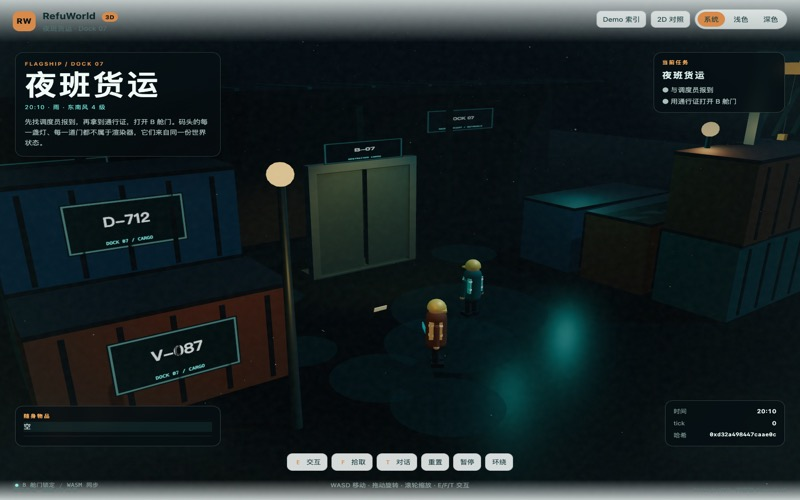
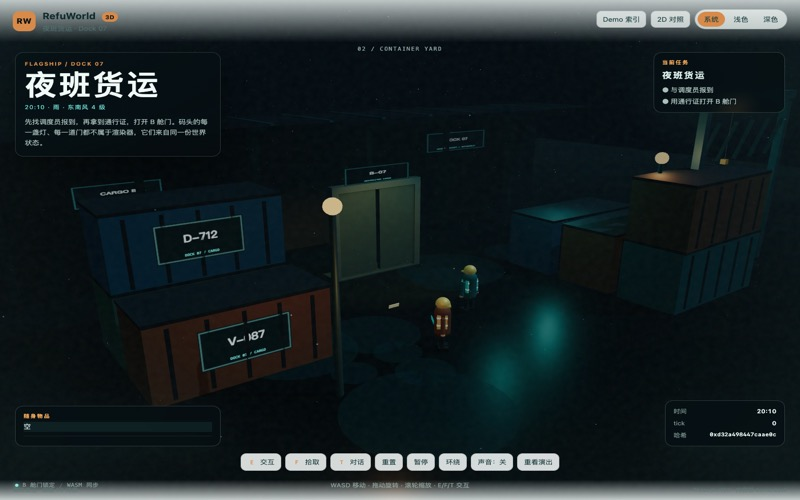
feat(world): Dock 07 环境音与镜头演出
新增 WebAudio 雨声/码头低频/雾笛/门伺服，默认关闭；四段式 2.8–4.6s 镜头推入、重看演出与拖动取消；更新旗舰卡截图；文档补 P7/P8。

diff --git a/games/world/web/dock3d.js b/games/world/web/dock3d.js
@@ -6,7 +6,17 @@ const TICK_US = 16666;
 const canvas = document.getElementById("scene");
 const el = Object.fromEntries(["quest-title","quest-objectives","inventory","flags","clock","tick","hash","toast","dialogue","dialogue-speaker","dialogue-text","loading","status-text","btn-pause"].map((id) => [id, document.getElementById(id)]));
 let world, current, renderer, scene, camera, controls;
-let paused = false, last = performance.now(), acc = 0, toastTimer = 0, dialogTimer = 0, intro = 0;
+let paused = false, last = performance.now(), acc = 0, toastTimer = 0, dialogTimer = 0;
+let cinematic = true, cinematicTime = 0, cinematicLength = 4.6;
+let soundOn = false;
+const SHOTS = [
+  { at: 0.0, pos: [15, 10, -16], target: [0, 1.6, 4.2], label: "01 / QUAY OVERVIEW" },
+  { at: 1.35, pos: [11, 6.2, -10], target: [0, 1.4, 3.2], label: "02 / CONTAINER YARD" },
+  { at: 2.85, pos: [7.8, 4.4, -7.2], target: [0, 1.3, 4.2], label: "03 / B-07 CARGO GATE" },
+  { at: 4.1, pos: [8.2, 5.2, -9], target: [0, 1.4, 2.5], label: "04 / NIGHT SHIFT" },
+];
+const shotLabel = document.getElementById("shot-label");
+let audio = null;
 let controlsAuto = false;
 const keys = new Set();
 const views = new Map();
@@ -100,6 +110,56 @@ function makeKeycard() {
   g.position.y = 0.7; return g;
 }
 
+class DockAudio {
+  constructor() { this.ctx = null; this.master = null; this.rainGain = null; this.hum = []; this.timer = null; }
+  async enable() {
+    if (!this.ctx) this.build();
+    await this.ctx.resume();
+    this.master.gain.setTargetAtTime(0.55, this.ctx.currentTime, 0.25);
+    this.startFoghorn();
+  }
+  disable() {
+    if (!this.ctx || !this.master) return;
+    this.master.gain.setTargetAtTime(0, this.ctx.currentTime, 0.18);
+    if (this.timer) { clearInterval(this.timer); this.timer = null; }
+  }
+  build() {
+    const Ctx = window.AudioContext || window.webkitAudioContext;
+    this.ctx = new Ctx();
+    this.master = this.ctx.createGain(); this.master.gain.value = 0; this.master.connect(this.ctx.destination);
+    const len = this.ctx.sampleRate * 2;
+    const buf = this.ctx.createBuffer(1, len, this.ctx.sampleRate);
+    const data = buf.getChannelData(0);
+    let last = 0;
+    for (let i = 0; i < len; i++) { const white = Math.random() * 2 - 1; last = last * 0.94 + white * 0.06; data[i] = last; }
+    const rain = this.ctx.createBufferSource(); rain.buffer = buf; rain.loop = true;
+    const filter = this.ctx.createBiquadFilter(); filter.type = "lowpass"; filter.frequency.value = 1200; filter.Q.value = 0.5;
+    this.rainGain = this.ctx.createGain(); this.rainGain.gain.value = 0.15;
+    rain.connect(filter).connect(this.rainGain).connect(this.master); rain.start();
+    for (const [freq, amp] of [[48, 0.045], [73, 0.022]]) {
+      const osc = this.ctx.createOscillator(); osc.type = "sine"; osc.frequency.value = freq;
+      const g = this.ctx.createGain(); g.gain.value = amp; osc.connect(g).connect(this.master); osc.start(); this.hum.push(osc);
+    }
+  }
+  startFoghorn() {
+    if (this.timer || !this.ctx) return;
+    const play = () => {
+      const now = this.ctx.currentTime;
+      const osc = this.ctx.createOscillator(); osc.type = "sine"; osc.frequency.setValueAtTime(92, now); osc.frequency.exponentialRampToValueAtTime(78, now + 1.6);
+      const g = this.ctx.createGain(); g.gain.setValueAtTime(0, now); g.gain.linearRampToValueAtTime(0.08, now + 0.25); g.gain.setValueAtTime(0.08, now + 1.2); g.gain.exponentialRampToValueAtTime(0.001, now + 3.0);
+      osc.connect(g).connect(this.master); osc.start(now); osc.stop(now + 3.1);
+    };
+    play(); this.timer = setInterval(play, 15000);
+  }
+  door() {
+    if (!this.ctx || !soundOn) return;
+    const now = this.ctx.currentTime; const osc = this.ctx.createOscillator(); osc.type = "sawtooth";
+    osc.frequency.setValueAtTime(110, now); osc.frequency.exponentialRampToValueAtTime(310, now + 0.7); osc.frequency.exponentialRampToValueAtTime(160, now + 1.2);
+    const g = this.ctx.createGain(); g.gain.setValueAtTime(0.0001, now); g.gain.exponentialRampToValueAtTime(0.060, now + 0.08); g.gain.exponentialRampToValueAtTime(0.0001, now + 1.35);
+    osc.connect(g).connect(this.master); osc.start(now); osc.stop(now + 1.4);
+  }
+}
+
 function buildScene() {
   scene = new THREE.Scene();
   scene.background = new THREE.Color(0x030b10);
@@ -115,6 +175,7 @@ function buildScene() {
   renderer.toneMapping = THREE.ACESFilmicToneMapping;
   renderer.toneMappingExposure = 1.2;
   controls = new OrbitControls(camera, canvas);
+  controls.enabled = false;
   controls.target.set(0, 1.4, 4);
   controls.enableDamping = true; controls.dampingFactor = 0.05;
   controls.minDistance = 3.5; controls.maxDistance = 22; controls.maxPolarAngle = Math.PI * 0.49;
@@ -309,6 +370,14 @@ function bindUi() {
   document.getElementById("btn-reset").addEventListener("click", () => { world.reset(); current = JSON.parse(world.state()); views.forEach((g) => scene.remove(g)); views.clear(); syncViews(); renderHud(); });
   el["btn-pause"].addEventListener("click", () => { paused = !paused; el["btn-pause"].textContent = paused ? "继续" : "暂停"; });
   document.getElementById("btn-camera").addEventListener("click", (e) => { controlsAuto = !controlsAuto; controls.autoRotate = controlsAuto; e.currentTarget.setAttribute("aria-pressed", String(controlsAuto)); });
+  document.getElementById("btn-replay").addEventListener("click", () => { cinematic = true; cinematicTime = 0; controls.enabled = false; controlsAuto = false; controls.autoRotate = false; document.getElementById("btn-camera").setAttribute("aria-pressed", "false"); });
+  document.getElementById("btn-sound").addEventListener("click", async (e) => {
+    soundOn = !soundOn;
+    if (soundOn) { if (!audio) audio = new DockAudio(); await audio.enable(); } else if (audio) audio.disable();
+    e.currentTarget.setAttribute("aria-pressed", String(soundOn));
+    e.currentTarget.textContent = soundOn ? "声音：开" : "声音：关";
+  });
+  controls.addEventListener("start", () => { if (cinematic) { cinematic = false; shotLabel.style.opacity = "0"; controls.enabled = true; } });
   window.addEventListener("keydown", (e) => {
     if (e.target instanceof HTMLInputElement || e.target instanceof HTMLTextAreaElement) return;
     const k = e.key.toLowerCase();
@@ -327,7 +396,7 @@ function handleEvents() {
     if (event.kind === "toast") showToast(event.data?.text ?? "");
     else if (event.kind === "dialogue_started") showDialogue(event);
     else if (event.kind === "item_acquired") showToast(`获得：${String(event.data?.item ?? "").replace("item.dock.", "")}`);
-    else if (event.kind === "door_opened") showToast("B 舱门开启");
+    else if (event.kind === "door_opened") { showToast("B 舱门开启"); audio?.door(); }
   }
 }
 
@@ -336,14 +405,27 @@ function animate(dt, now) {
   if (stars) stars.rotation.y += dt * 0.003;
   if (craneHook) craneHook.position.y = 5.4 + Math.sin(now * 0.0003) * 0.15;
   for (const p of gate.panels) p.rotation.z = Math.sin(now * 0.001) * 0.0015;
-  if (intro < 1) {
-    intro = Math.min(1, intro + dt / 2.8);
-    const e = 1 - Math.pow(1 - intro, 3);
-    camera.position.lerpVectors(new THREE.Vector3(13, 9, -14), new THREE.Vector3(8, 5.2, -9), e);
-    controls.target.lerpVectors(new THREE.Vector3(0, 1.4, 4), new THREE.Vector3(0, 1.4, 2.5), e);
+  if (cinematic) {
+    cinematicTime += dt;
+    let a = SHOTS[0], b = SHOTS[SHOTS.length - 1];
+    if (cinematicTime >= SHOTS[SHOTS.length - 1].at) { a = SHOTS[SHOTS.length - 1]; b = a; }
+    else {
+      for (let i = 0; i < SHOTS.length - 1; i++) {
+        if (cinematicTime >= SHOTS[i].at && cinematicTime <= SHOTS[i + 1].at) { a = SHOTS[i]; b = SHOTS[i + 1]; break; }
+      }
+    }
+    const span = Math.max(0.001, b.at - a.at);
+    const u = Math.min(1, (cinematicTime - a.at) / span);
+    const e = u * u * (3 - 2 * u);
+    camera.position.lerpVectors(new THREE.Vector3(...a.pos), new THREE.Vector3(...b.pos), e);
+    controls.target.lerpVectors(new THREE.Vector3(...a.target), new THREE.Vector3(...b.target), e);
+    shotLabel.textContent = b.label;
+    shotLabel.style.opacity = "1";
+    if (cinematicTime >= cinematicLength) { cinematic = false; shotLabel.style.opacity = "0"; controls.enabled = true; }
+  } else {
+    const p = playerEntity();
+    if (p) controls.target.lerp(new THREE.Vector3(p.transform.position[0], 1.4, p.transform.position[2] + 2.8), 0.06);
   }
-  const p = playerEntity();
-  if (p) controls.target.lerp(new THREE.Vector3(p.transform.position[0], 1.4, p.transform.position[2] + 2.8), 0.06);
 }
 
 function loop(now) {

diff --git a/games/world/web/dock3d.html b/games/world/web/dock3d.html
@@ -82,9 +82,12 @@
       <button id="btn-reset" type="button">重置</button>
       <button id="btn-pause" type="button">暂停</button>
       <button id="btn-camera" type="button" aria-pressed="false">环绕</button>
+      <button id="btn-sound" type="button" aria-pressed="false">声音：关</button>
+      <button id="btn-replay" type="button">重看演出</button>
     </section>
     <p class="scene-hint">WASD 移动 · 拖动旋转 · 滚轮缩放 · E/F/T 交互</p>
     <div class="dock-status"><span class="dock-dot"></span><span id="status-text">码头在线</span><span class="dock-sep">/</span><span>WASM 同步</span></div>
+    <div class="dock-shot" id="shot-label">01 / QUAY OVERVIEW</div>
   </main>
 
   <div id="dialogue" class="dialogue" hidden><p class="eyebrow" id="dialogue-speaker">调度员</p><p id="dialogue-text"></p></div>

diff --git a/games/world/web/dock3d.css b/games/world/web/dock3d.css
@@ -32,3 +32,8 @@
 .dock-page .inventory span, .dock-page .flags span { color: #d8e8e4; background: rgba(111,231,220,.08); border-color: rgba(111,231,220,.25); }
 .dock-page .telemetry span { color: #77928d; }
 .dock-page .telemetry strong, .dock-page .telemetry code { color: #e7f7f2; }
+
+
+.dock-shot { position:fixed; top:92px; left:50%; transform:translateX(-50%); z-index:5; color:rgba(201,231,226,.68); font:10px var(--mono,Menlo,monospace); letter-spacing:.18em; pointer-events:none; transition:opacity .5s; }
+@media(max-width:620px){.dock-shot{top:auto;bottom:100px;font-size:9px}}
+.dock-actions #btn-sound[aria-pressed="true"] { background:#6fe7dc; color:#061114; border-color:#6fe7dc; }

diff --git a/games/world/code/crates/world-core/src/world.rs b/games/world/code/crates/world-core/src/world.rs
@@ -382,7 +382,7 @@ impl World {
             .agency
             .changes(self.spacetime.clock_minutes, self.store.schedules());
         for change in changes {
-            if let Some(mut entity) = self.entity_mut(change.id) {
+            if let Some(entity) = self.entity_mut(change.id) {
                 *entity.behavior = Some(change.behavior.clone());
             }
             self.emit(

diff --git a/games/world/code/crates/world-core/src/layers/subject.rs b/games/world/code/crates/world-core/src/layers/subject.rs
@@ -18,6 +18,7 @@ pub(crate) fn has_item(entity: &Entity, item: &str) -> bool {
     entity.inventory.iter().any(|s| s.item == item && s.count > 0)
 }
 
+#[cfg(test)]
 pub(crate) fn give_item(entity: &mut Entity, item: &str, count: u32) {
     if count == 0 {
         return;

diff --git a/games/world/CHANGELOG.md b/games/world/CHANGELOG.md
@@ -42,6 +42,7 @@
 - **Demo 索引缩略图 404**：`web/demos.html` 改用本地 `web/images/demos/*.jpg`，避免从 `web/` 根目录服务时 `../docs/shots` 越界；README 统一从 `games/world` 根目录启动静态服务器。
 
 ### 变更
+- **Dock 07 环境音与镜头演出**：新增 WebAudio 程序化环境（雨声/低频码头嗡鸣/雾笛/货舱门伺服），默认关闭、点击启用；四段式镜头（码头全景→堆场→B-07→夜班）2.8–4.6s 推入，支持重看演出与拖动取消；不用外部音频文件。
 - **Entity 组件列拆分**：新增 `EntityStore` SoA 存储（core/transform/collider/speed/inventory/interactable/door/schedule/behavior/dialogue 分列）；`Entity` 保留为 Snapshot/C ABI DTO；`EntityView`/`EntityMut` 作为运行时扁平读写视图；`EntityId` 代际、spawn/despawn、快照往返与黄金哈希保持；5k tick P95 0.165ms。
 - **夜班货运旗舰 3D（Dock 07）**：专用 `web/dock3d.html` + `dock3d.js`，集装箱堆场、吊机、B-07 货舱门、雨夜/灯光/水洼/码头仓库与低模工人；任务/门禁/拾取全部来自 `demo.dock` wasm 状态；5 个通用 `scene3d` 原型从 Demo 索引移除（文件保留为实验），索引收敛到 17 个玩法 Demo。
 - **内核分层 Phase 5（边界门）**：新增 `test/check_layers.mjs`，静态拒绝 L0/L1/L2/L3 向上 import；接入 `run_m1.sh` 与 RefuWorld CI；为 Narrative 补 flags/脚本过滤单测。四层边界与黄金门全部绿。

diff --git a/games/world/docs/11_内核分层与迁移.md b/games/world/docs/11_内核分层与迁移.md
@@ -1,7 +1,7 @@
 ---
 title: "11 · 内核分层与迁移"
 doc_type: "方案（架构）"
-status: "Phase 6 完成；Entity 组件列拆分完成；Dock 环境音/镜头收尾中"
+status: "Phase 7 完成：内核分层 + Entity 组件列 + Dock 07 环境音/镜头"
 date: "2026-11-27"
 source: "AI 起草，人类裁决"
 authority: "人类（拍板）/ 工程（实现）"
@@ -185,6 +185,7 @@ World (门面 / ABI / tick 调度)
 | P5 | 层契约、CI、边界检查 | ✅ 已通过 |
 | P6 | 夜班货运旗舰 3D | ✅ 已完成 |
 | P7 | Entity 组件列拆分 | ✅ 已完成（EntityStore SoA + DTO 兼容） |
+| P8 | Dock 07 环境音/镜头 | ✅ 已完成 |
 
 每个阶段一个提交，不做大爆炸重构。
 
